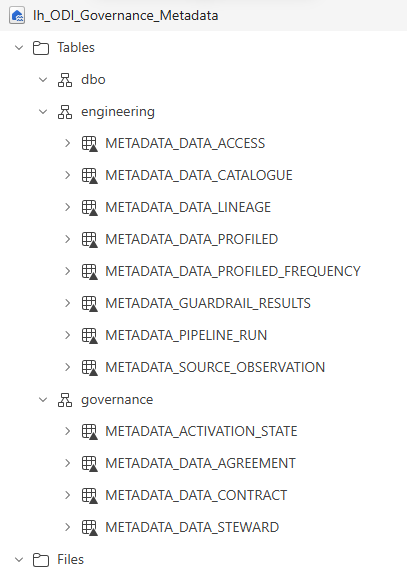
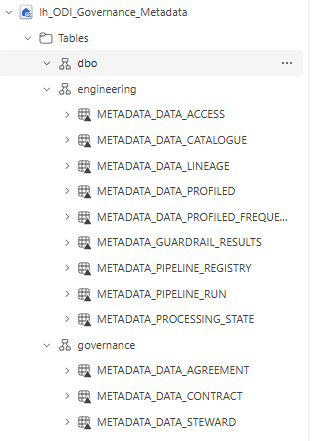
visual

diff --git a/docs/guided-demo/01-establish-governance-context.md b/docs/guided-demo/01-establish-governance-context.md
@@ -4,25 +4,9 @@
 
 Complete [Step 0C](00C-prepare-demo-data-with-fabricops-io.md) and open `01_governance`.
 
-### Load the shared environment
+### Load the shared 00_env_config notebook that is in the same workspace via our helper function
 
-```python
-from fabricops_kit import setup_notebook
-context = setup_notebook()
-```
-`00_env_config` loads the configured Bronze, Silver, Gold, and Metadata stores, the environment and notebook identity, the Spark session, and metadata routing. You should see the shared FabricOps configuration load without an error.
-
-### Import required widget functions
-
-- We created widgets with ipywidgets to provide users with a simple UI to record and capture the required data.
-- Feel free to swap this out for an actual frontend, or capture the data directly into the underlying metadata tables if you prefer.
-
-```python
-from fabricops_kit import (
-    widget_render_data_agreement,
-    widget_render_data_steward,
-)
-```
+![Load the shared 00_env_config notebook](../assets/01/SetupNotebook.png)
 
 <div class="fabricops-section-banner" markdown="1">
 <img src="/FabricOps-Starter-Kit/assets/mascots/robot-writing.png" alt="" loading="lazy">

diff --git a/docs/guided-demo/02-build-and-run-etl.md b/docs/guided-demo/02-build-and-run-etl.md
@@ -1,11 +1,5 @@
 # Step 2. Build a Pipeline
 
-### Build explicit pipeline authority before Read
-
-
-
-Complete **Author → Test → Activate → Live**. [Step 5](05-activate-data-contract-and-promote.md) reviews the complete affected release and publishes a coordinated environment revision. Headless Live resolves that revision automatically. Deployment stays separate. Start a new plan after changing configuration or contract selections.
-
 ### Before you begin
 
 1. Complete [Step 00B. Configure the Environment and load assets](00B-configure-environment-and-load-assets.md).

diff --git a/docs/guided-demo/00C-prepare-demo-data-with-fabricops-io.md b/docs/guided-demo/00C-prepare-demo-data-with-fabricops-io.md
@@ -23,7 +23,7 @@ Import the setup notebook and connect it to the configured Fabric Environment.
 
 ![File upload](../assets/00C/File%20Upload.png)
 
-4. Run the first two steps in the notebook.
+### Load the shared 00_env_config notebook that is in the same workspace via our helper function (Or if you did want to point to a notebook in another workpace just pass the workpace id into the helper funciton)
 
 ![Demo setup](../assets/00C/Demo%20Set%20Up.png)
 
